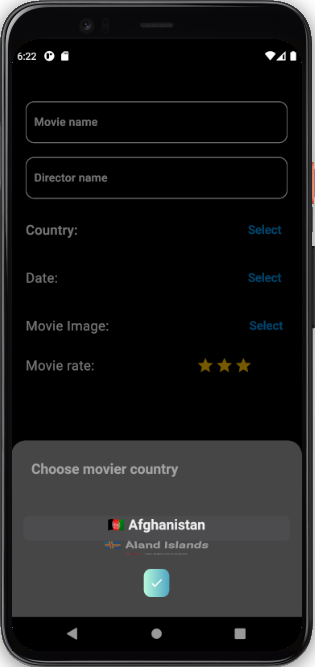
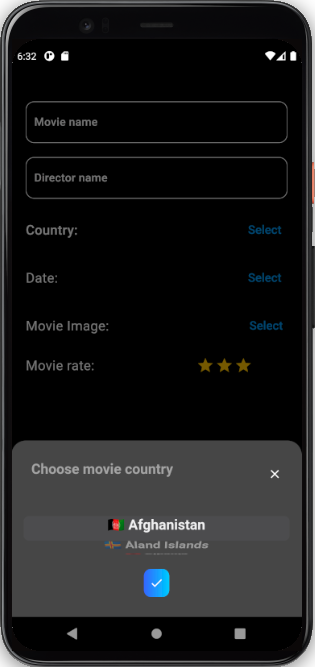
Done project

Changed region(s): [[0.3714, 0.6897, 0.5714, 0.7196], [0.4571, 0.8396, 0.5429, 0.8996], [0.8571, 0.6897, 0.8857, 0.7196]]

diff --git a/lib/screens/add_movie_page.dart b/lib/screens/add_movie_page.dart
@@ -266,8 +266,7 @@ class AddMoviePage extends HookWidget {
       backgroundColor: grey,
       items: countryTextWidgetList,
       dismissable: true,
-      title: 'Choose movier country',
-      bottomPickerTheme: BottomPickerTheme.morningSalad,
+      title: AppConstants.chooseMovieCountry,
       onSubmit: (index) {
         context
             .read<AppCubit>()
@@ -284,8 +283,10 @@ class AddMoviePage extends HookWidget {
         fontSize: 20,
       ),
       displayButtonIcon: true,
-      displayCloseIcon: false,
+      displayCloseIcon: true,
+      closeIconColor: Colors.white,
       displaySubmitButton: true,
+      bottomPickerTheme: BottomPickerTheme.blue,
     ).show(context);
   }
 
@@ -316,6 +317,8 @@ class AddMoviePage extends HookWidget {
             );
       },
       maxDateTime: DateTime.now(),
+      displayCloseIcon: true,
+      closeIconColor: Colors.white,
       minDateTime: DateTime(1895),
       bottomPickerTheme: BottomPickerTheme.blue,
     ).show(context);

diff --git a/lib/utils/app_constants.dart b/lib/utils/app_constants.dart
@@ -29,7 +29,8 @@ class AppConstants {
   static const movieRate = 'Movie rate';
   static const welcomeBack = 'Welcome back,';
   static const search = 'Search';
-  static const chooseMovieDate = 'Choose movie date:';
+  static const chooseMovieDate = 'Choose movie date';
+  static const chooseMovieCountry = 'Choose movie country';
 
   static const countryList = [
     "🇦🇫 Afghanistan",
